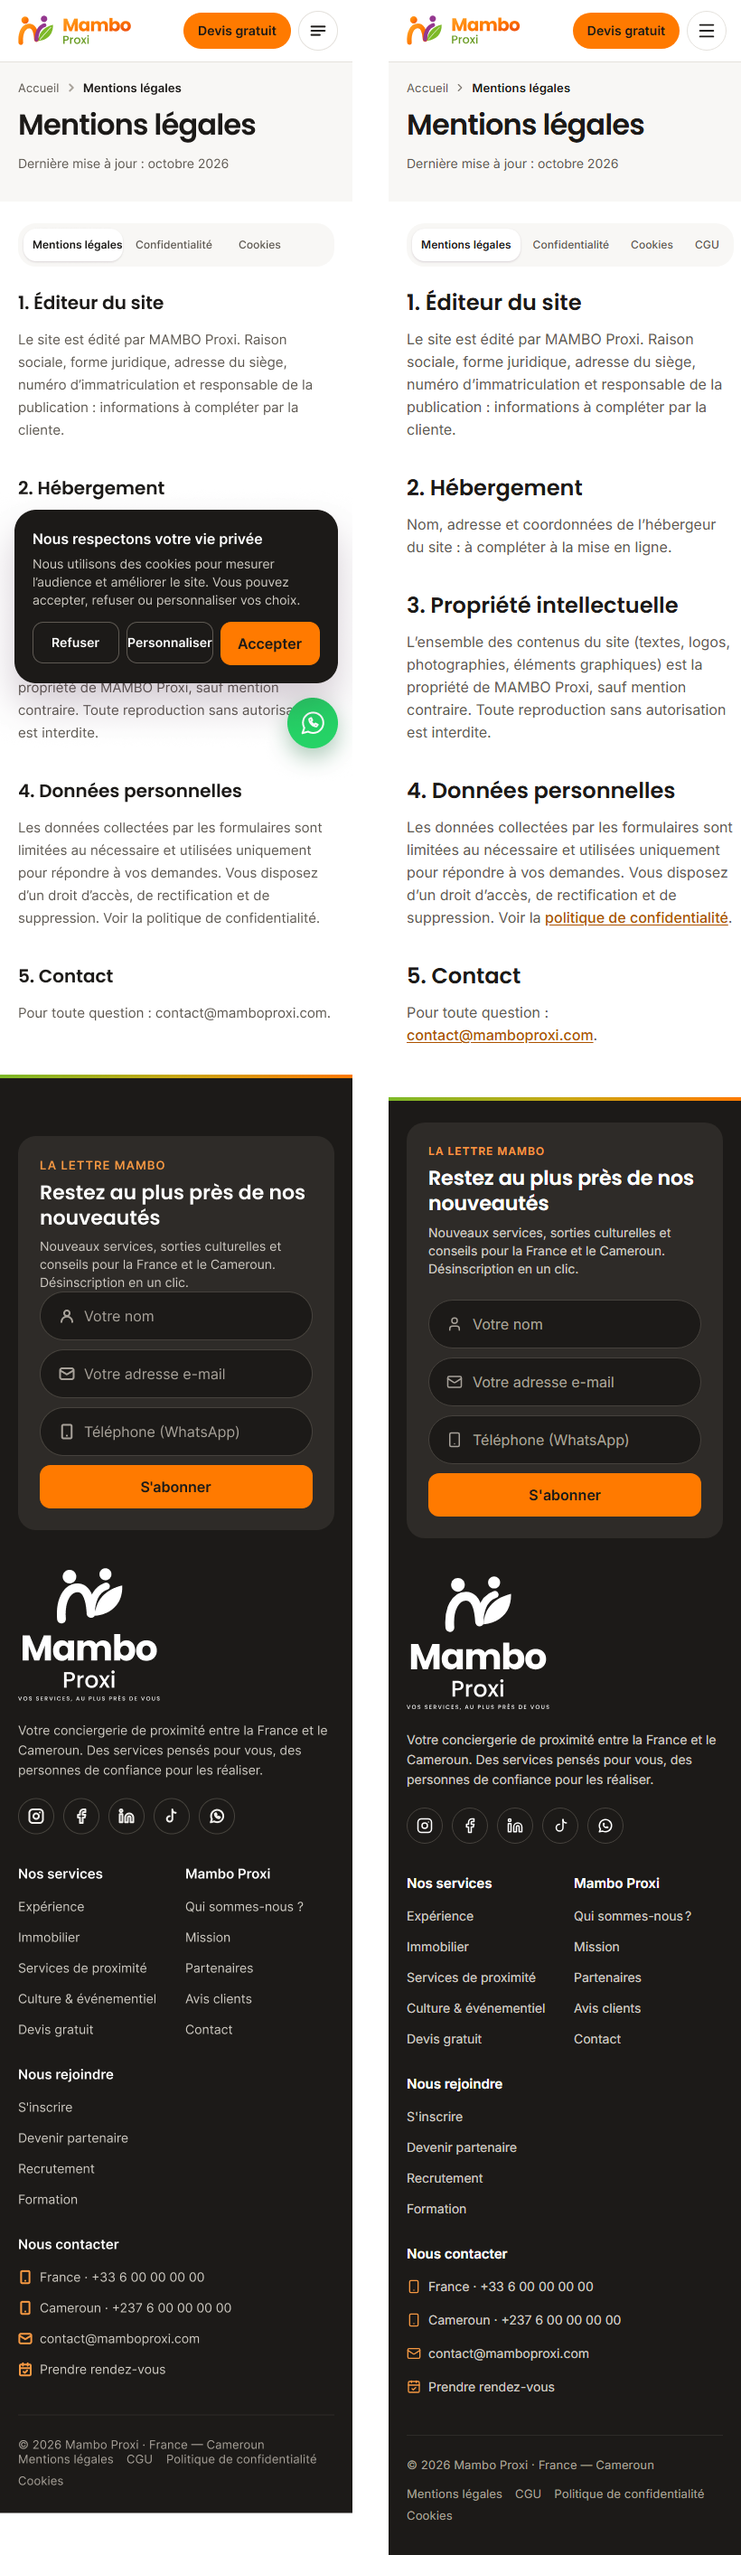
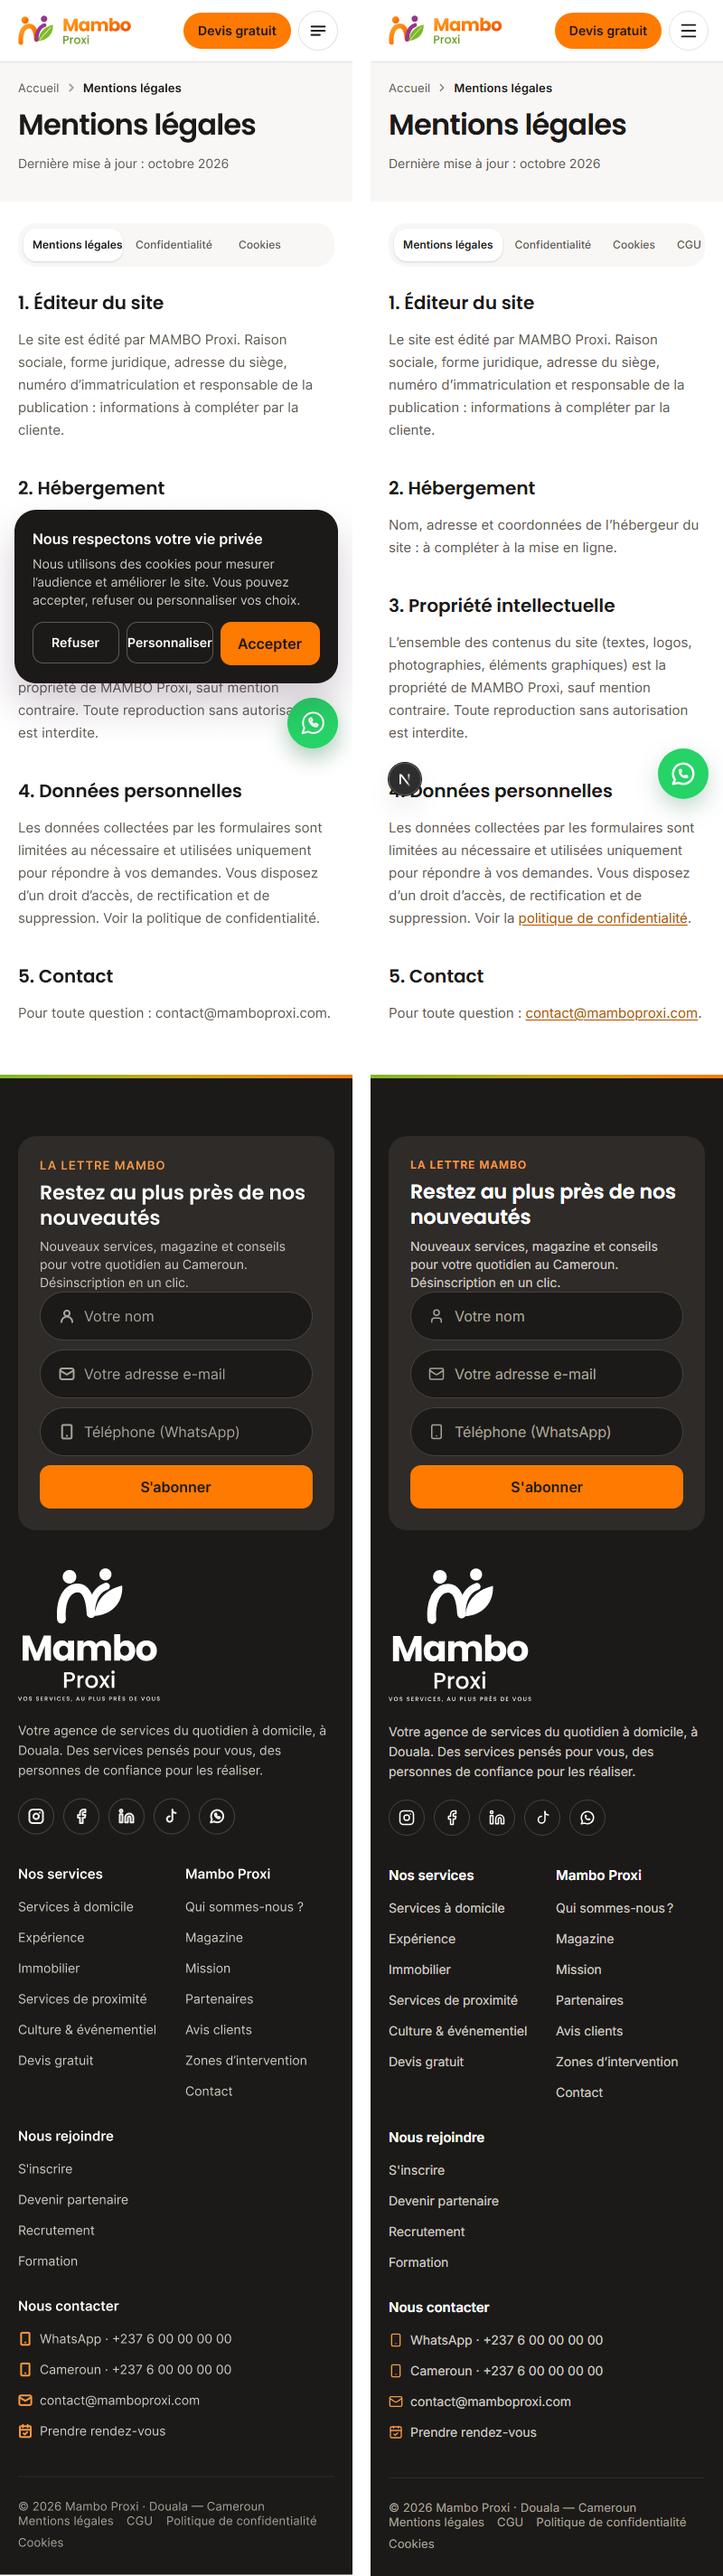
feat(legal): pages légales en anglais, titres et texte du mobile recalés sur la maquette

Changed region(s): [[0.0, 0.0934, 1.0, 1.0], [0.5312, 0.0, 0.9062, 0.0623], [0.0312, 0.0, 0.4062, 0.0623]]

diff --git a/src/components/sections/legal/legal-page.tsx b/src/components/sections/legal/legal-page.tsx
@@ -2,6 +2,7 @@ import { ChevronRight, FileText } from 'lucide-react';
 import type { Metadata, Route } from 'next';
 import { SiteLink as Link } from '@/i18n/site-link';
 import { notFound } from 'next/navigation';
+import { getTranslations } from 'next-intl/server';
 import { Breadcrumb } from '@/components/ui/breadcrumb';
 import type { HeroSection, PageKey, RichTextSection } from '@/lib/api/schema';
 import { cn } from '@/lib/cn';
@@ -12,13 +13,8 @@ import { CookieSettingsButton } from './cookie-settings-button';
 
 export type LegalKey = Extract<PageKey, 'mentions-legales' | 'confidentialite' | 'cookies' | 'cgu'>;
 
-/** Sommaire commun : libellé complet (desktop) et court (onglets mobiles). */
-const LEGAL_PAGES: ReadonlyArray<{ key: LegalKey; label: string; short: string }> = [
-  { key: 'mentions-legales', label: 'Mentions légales', short: 'Mentions légales' },
-  { key: 'confidentialite', label: 'Politique de confidentialité', short: 'Confidentialité' },
-  { key: 'cookies', label: 'Gestion des cookies', short: 'Cookies' },
-  { key: 'cgu', label: 'Conditions générales', short: 'CGU' },
-];
+/** Sommaire commun : libellé complet (desktop) et court (onglets mobiles), dans `legal.pages` des messages. */
+const LEGAL_PAGES: ReadonlyArray<LegalKey> = ['mentions-legales', 'confidentialite', 'cookies', 'cgu'];
 
 export function legalMetadata(key: LegalKey): Promise<Metadata> {
   return pageMetadata(key, `/${key}`);
@@ -30,7 +26,7 @@ export function legalMetadata(key: LegalKey): Promise<Metadata> {
  * back-office et assaini côté API (balises autorisées : p, h2–h4, strong, em, a, ul, ol, li, br, blockquote).
  */
 export async function LegalPage({ pageKey }: { pageKey: LegalKey }) {
-  const page = await getPage(pageKey);
+  const [page, t] = await Promise.all([getPage(pageKey), getTranslations('legal')]);
   if (!page) notFound();
   const hero = page.sections.find((section): section is HeroSection => section.type === 'hero');
   const content = page.sections.find((section): section is RichTextSection => section.type === 'richText');
@@ -40,7 +36,7 @@ export async function LegalPage({ pageKey }: { pageKey: LegalKey }) {
     <>
       <section className="bg-neutral-50">
         <div className="container-site flex flex-col gap-3.5 pt-5 pb-8 xl:py-12">
-          <Breadcrumb items={[{ label: 'Accueil', href: routes.home }, { label: title }]} />
+          <Breadcrumb items={[{ label: t('home'), href: routes.home }, { label: title }]} />
           <h1 className="font-brand text-[32px] leading-[38px] font-semibold tracking-[-0.025em] text-text-main md:text-[44px] md:leading-[50px] xl:text-[52px] xl:leading-[58px]">
             {frenchTypography(title)}
           </h1>
@@ -54,16 +50,16 @@ export async function LegalPage({ pageKey }: { pageKey: LegalKey }) {
       <div className="bg-neutral-0">
         <div className="container-site grid items-start gap-6 pt-6 pb-14 xl:grid-cols-[300px_minmax(0,1fr)] xl:gap-20 xl:pt-16 xl:pb-28">
           <nav
-            aria-label="Pages légales"
+            aria-label={t('nav')}
             className="min-w-0 xl:sticky xl:top-[calc(var(--site-header-h,121px)+24px)]"
           >
             <ul className="flex [scrollbar-width:none] gap-1 overflow-x-auto rounded-[20px] bg-neutral-50 p-1.5 xl:flex-col xl:p-3 [&::-webkit-scrollbar]:hidden">
-              {LEGAL_PAGES.map((item) => {
-                const active = item.key === pageKey;
+              {LEGAL_PAGES.map((key) => {
+                const active = key === pageKey;
                 return (
-                  <li key={item.key} className="flex-1 xl:flex-none">
+                  <li key={key} className="flex-1 xl:flex-none">
                     <Link
-                      href={`/${item.key}` as Route}
+                      href={`/${key}` as Route}
                       aria-current={active ? 'page' : undefined}
                       className={cn(
                         'flex items-center justify-center gap-2 rounded-[14px] px-2.5 py-2 font-ui text-[12px] leading-5 tracking-[0.005em] whitespace-nowrap xl:justify-start xl:px-4 xl:py-3 xl:text-[14px]',
@@ -81,8 +77,8 @@ export async function LegalPage({ pageKey }: { pageKey: LegalKey }) {
                       ) : (
                         <ChevronRight aria-hidden size={16} className="hidden shrink-0 xl:block" />
                       )}
-                      <span className="xl:hidden">{item.short}</span>
-                      <span className="hidden xl:inline">{item.label}</span>
+                      <span className="xl:hidden">{t(`pages.${key}.short`)}</span>
+                      <span className="hidden xl:inline">{t(`pages.${key}.label`)}</span>
                     </Link>
                   </li>
                 );
@@ -92,11 +88,11 @@ export async function LegalPage({ pageKey }: { pageKey: LegalKey }) {
           <article className="flex min-w-0 flex-col gap-9">
             {content?.articles.map((article, index) => (
               <section key={article.title} className="flex flex-col gap-3">
-                <h2 className="font-brand text-[24px] leading-8 font-semibold text-text-main">
+                <h2 className="font-brand text-[20px] leading-8 font-semibold text-text-main md:text-[24px]">
                   {frenchTypography(`${index + 1}. ${article.title}`)}
                 </h2>
                 <div
-                  className="flex flex-col gap-3 font-ui text-[16px] leading-[25px] text-text-muted xl:text-[17px] xl:leading-[29px] [&_a]:font-medium [&_a]:text-text-brand [&_a]:underline [&_a]:underline-offset-2 [&_h3]:font-semibold [&_h3]:text-text-main [&_li]:list-disc [&_strong]:text-text-main [&_ul]:flex [&_ul]:flex-col [&_ul]:gap-1 [&_ul]:pl-5"
+                  className="flex flex-col gap-3 font-ui text-[15px] leading-[25px] text-text-muted md:text-[16px] xl:text-[17px] xl:leading-[29px] [&_a]:text-text-brand [&_a]:underline [&_a]:underline-offset-2 [&_h3]:font-semibold [&_h3]:text-text-main [&_li]:list-disc [&_strong]:text-text-main [&_ul]:flex [&_ul]:flex-col [&_ul]:gap-1 [&_ul]:pl-5"
                   // HTML assaini par l'API (contrat `Html`) : seules des balises de mise en forme sont acceptées.
                   dangerouslySetInnerHTML={{ __html: article.html }}
                 />

diff --git a/src/mocks/data/legal-pages.ts b/src/mocks/data/legal-pages.ts
@@ -9,14 +9,27 @@ type LegalKey = 'mentions-legales' | 'confidentialite' | 'cookies' | 'cgu';
 type Article = { title: string; html: string };
 
 const UPDATED = 'Dernière mise à jour : octobre 2026';
+const UPDATED_EN = 'Last updated: October 2026';
 
-function legalPage(key: LegalKey, title: string, articles: Article[], toComplete: boolean): Page {
+function legalPage(
+  key: LegalKey,
+  title: string,
+  articles: Article[],
+  toComplete: boolean,
+  updated = UPDATED,
+): Page {
   return {
     key,
     title,
     updatedAt: '2026-10-01T08:00:00.000Z',
     isPreview: false,
-    seo: { title, description: `${title} du site MAMBO Proxi.`, ogImageUrl: null, noindex: false },
+    seo: {
+      title,
+      description:
+        updated === UPDATED ? `${title} du site MAMBO Proxi.` : `${title} of the MAMBO Proxi website.`,
+      ogImageUrl: null,
+      noindex: false,
+    },
     sections: [
       {
         id: 'hero',
@@ -24,7 +37,7 @@ function legalPage(key: LegalKey, title: string, articles: Article[], toComplete
         enabled: true,
         variant: 'legal',
         title,
-        updatedLabel: UPDATED,
+        updatedLabel: updated,
         showWhatsapp: false,
       },
       { id: 'contenu', type: 'richText', enabled: true, articles, toComplete },
@@ -124,5 +137,105 @@ export const legalPages: Record<LegalKey, Page> = {
       },
     ],
     true,
+  ),
+};
+
+/** Pages légales en anglais (`?lang=en`) : mêmes modèles « à compléter », liens vers les adresses anglaises. */
+export const legalPagesEn: Record<LegalKey, Page> = {
+  'mentions-legales': legalPage(
+    'mentions-legales',
+    'Legal notice',
+    [
+      {
+        title: 'Website publisher',
+        html: '<p>This website is published by MAMBO Proxi. Company name, legal form, registered office, registration number and publication manager: details to be provided by the client.</p>',
+      },
+      {
+        title: 'Hosting',
+        html: '<p>Name, address and contact details of the website host: to be provided at launch.</p>',
+      },
+      {
+        title: 'Intellectual property',
+        html: '<p>All content on this website (text, logos, photographs, graphic elements) is the property of MAMBO Proxi unless otherwise stated. Any reproduction without permission is prohibited.</p>',
+      },
+      {
+        title: 'Personal data',
+        html: '<p>Data collected through the forms is limited to what is necessary and used only to answer your requests. You have the right to access, correct and delete it. See the <a href="/en/privacy-policy">privacy policy</a>.</p>',
+      },
+      {
+        title: 'Contact',
+        html: '<p>For any question: <a href="mailto:contact@mamboproxi.com">contact@mamboproxi.com</a>.</p>',
+      },
+    ],
+    false,
+    UPDATED_EN,
+  ),
+  confidentialite: legalPage(
+    'confidentialite',
+    'Privacy policy',
+    [
+      {
+        title: 'Data controller',
+        html: '<p>MAMBO Proxi, whose details appear in the <a href="/en/legal-notice">legal notice</a>. Details to be provided by the client.</p>',
+      },
+      {
+        title: 'Data collected',
+        html: '<p>We only collect the data you enter in our forms:</p><ul><li>identity and contact details (name, email, phone, country and city);</li><li>description of your need and contact preferences;</li><li>attachments you choose to send (CV).</li></ul>',
+      },
+      {
+        title: 'Purposes and legal bases',
+        html: '<p>Answering your quote, contact, appointment or partnership requests, based on your consent; sending the newsletter if you asked for it. To be completed by the client.</p>',
+      },
+      {
+        title: 'Retention period',
+        html: '<p>Retention periods by type of request: to be provided by the client.</p>',
+      },
+      {
+        title: 'Your rights',
+        html: '<p>You have the right to access, correct, erase, object and port your data. To exercise them: <a href="mailto:contact@mamboproxi.com">contact@mamboproxi.com</a>.</p>',
+      },
+    ],
+    true,
+    UPDATED_EN,
+  ),
+  cookies: legalPage(
+    'cookies',
+    'Cookie settings',
+    [
+      {
+        title: 'Necessary cookies',
+        html: '<p>They make the website work (remembering your cookie choices, form security) and cannot be switched off.</p>',
+      },
+      {
+        title: 'Audience measurement',
+        html: '<p>Only with your consent, we measure website traffic (Google Analytics 4) to improve it. No measurement script is loaded before you choose.</p>',
+      },
+      {
+        title: 'How long your choice lasts',
+        html: '<p>Your choice is kept for 6 months. You can change it at any time from this page or the “Cookies” link in the footer.</p>',
+      },
+    ],
+    true,
+    UPDATED_EN,
+  ),
+  cgu: legalPage(
+    'cgu',
+    'Terms of use',
+    [
+      {
+        title: 'Purpose',
+        html: '<p>Terms of use of the MAMBO Proxi website: to be provided by the client.</p>',
+      },
+      {
+        title: 'Access to the website',
+        html: '<p>The website is free to access. MAMBO Proxi may suspend access for maintenance.</p>',
+      },
+      {
+        title: 'Liability',
+        html: '<p>Liability terms and governing law: to be provided by the client.</p>',
+      },
+    ],
+    true,
+    UPDATED_EN,
   ),
 };

diff --git a/src/mocks/handlers/pages.ts b/src/mocks/handlers/pages.ts
@@ -1,6 +1,6 @@
 import { http, HttpResponse } from 'msw';
 import type { Page } from '@/lib/api/schema';
-import { legalPages } from '../data/legal-pages';
+import { legalPages, legalPagesEn } from '../data/legal-pages';
 import { pages, pagesEn } from '../data/pages';
 
 /**
@@ -11,8 +11,9 @@ export const pageHandlers = [
   http.get('*/v1/pages/:key', ({ params, request }) => {
     const key = String(params.key) as Page['key'];
     const lang = new URL(request.url).searchParams.get('lang');
+    const legal = lang === 'en' ? legalPagesEn : legalPages;
     const page =
-      (lang === 'en' ? pagesEn[key] : undefined) ?? pages[key] ?? legalPages[key as keyof typeof legalPages];
+      (lang === 'en' ? pagesEn[key] : undefined) ?? pages[key] ?? legal[key as keyof typeof legalPages];
     return page ? HttpResponse.json(page) : undefined;
   }),
 ];

diff --git a/src/components/sections/legal/cookie-settings-button.tsx b/src/components/sections/legal/cookie-settings-button.tsx
@@ -1,13 +1,15 @@
 'use client';
 
+import { useTranslations } from 'next-intl';
 import { Button } from '@/components/ui/button';
 import { openCookiePreferences } from '@/lib/consent';
 
 /** « Modifier mes choix » (page Gestion des cookies) : rouvre les préférences du bandeau cookies. */
 export function CookieSettingsButton() {
+  const t = useTranslations('legal');
   return (
     <Button variant="outline" className="self-start" onClick={() => openCookiePreferences()}>
-      Modifier mes choix de cookies
+      {t('settings')}
     </Button>
   );
 }
